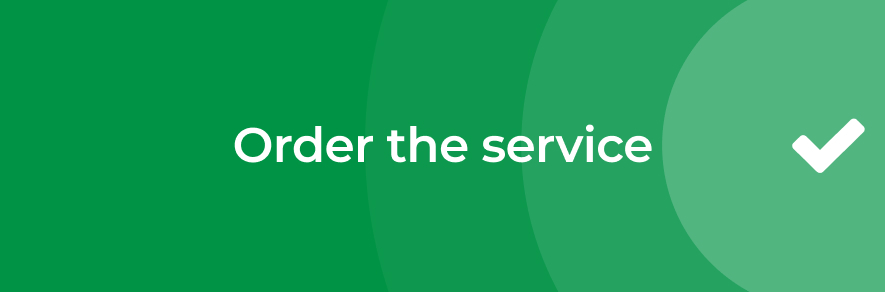
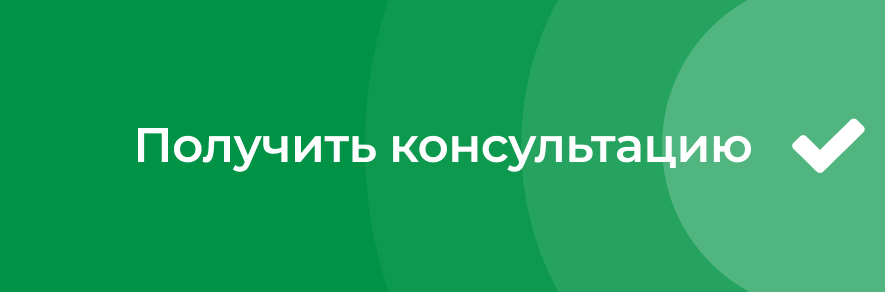
UPD: Перевод модалок

Changed region(s): [[0.1525, 0.4315, 0.8542, 0.5856]]

diff --git a/templates/parts/modals/parts/legal-modal.php b/templates/parts/modals/parts/legal-modal.php
@@ -5,25 +5,24 @@
     <div class="service-modal__header">
     </div>
     <form class="service-modal__form" action="" data-form="legal-form">
-      <div class="service-modal__form-title">Leave a request</div>
-      <div class="service-modal__form-subtitle">for the provision of <span>legal services</span></div>
-      <input class="service-modal__form-input input-reset service-modal__form-input--name" type="text" name="name" placeholder="Your name">
+      <div class="service-modal__form-title">Оставьте заявку</div>
+      <div class="service-modal__form-subtitle">для консультации по <span>юридическим услугам</span></div>
+      <input class="service-modal__form-input input-reset service-modal__form-input--name" type="text" name="name" placeholder="Ваше имя">
       <input class="service-modal__form-input input-reset service-modal__form-input--tel" name="phone"
         data-phone-country type="tel">
-      <div class="service-modal__form-select-title">Select a service</div>
+      <div class="service-modal__form-select-title">Выбрать услугу</div>
       <select class="service-modal__form-input service-modal__form-input--select" name="service">
-        <option value="Opening of the Free Zone company">Opening of the Free Zone company</option>
-        <option value="Opening a company in Mainland">Opening a company in Mainland</option>
-        <option value="Opening a freelance license">Opening a freelance license</option>
-        <option value="Obtaining a resident visa">Obtaining a resident visa</option>
-        <option value="Opening a bank account">Opening a bank account</option>
-        <option value="Opening Offshore">Opening Offshore</option>
-        <option value="Creation of trust structures">Creation of trust structures</option>
-        <option value="Other">Other</option>
+        <option value="Открытие компании во Free zone">Открытие компании во Free zone</option>
+        <option value="Регистрация компании в Mainland">Регистрация компании в Mainland</option>
+        <option value="Открытие фриланс лицензии">Открытие фриланс лицензии</option>
+        <option value="Резидентская виза">Резидентская виза</option>
+        <option value="Открытие банковского счета">Открытие банковского счета</option>
+        <option value="Открытие оффшора">Открытие оффшора</option>
+        <option value="Создание трастовых структур">Создание трастовых структур</option>
+        <option value="Другое">Другое</option>
       </select>
-      <button class="btn-reset service-modal__form-button">Find out the price</button>
-      <div class="service-modal__form-legal">By submitting the form you agree to the terms of the <a href="<?= get_privacy_policy_url() ?>" target="_blank">data
-          privacy policy</a></div>
+      <button class="btn-reset service-modal__form-button">Подобрать цену</button>
+      <div class="service-modal__form-legal">Отправляю форму вы соглашаетесь с условиями <a href="<?= get_privacy_policy_url() ?>" target="_blank">политики конфиденциальности данных</a></div>
     </form>
   </div>
 </div>

diff --git a/templates/parts/modals/parts/accounting-modal.php b/templates/parts/modals/parts/accounting-modal.php
@@ -5,22 +5,21 @@
     <div class="service-modal__header">
     </div>
     <form class="service-modal__form" action="" data-form="accounting-form">
-      <div class="service-modal__form-title">Leave a request</div>
-      <div class="service-modal__form-subtitle">for the provision of <span>accounting services</span></div>
-      <input class="service-modal__form-input input-reset service-modal__form-input--name" type="text" name="name" placeholder="Your name">
+      <div class="service-modal__form-title">Оставьте заявку</div>
+      <div class="service-modal__form-subtitle">для консультации по <span>бухгалтерским услугам</span></div>
+      <input class="service-modal__form-input input-reset service-modal__form-input--name" type="text" name="name" placeholder="Ваше имя">
       <input class="service-modal__form-input input-reset service-modal__form-input--tel" name="phone"
         data-phone-country type="tel">
-      <div class="service-modal__form-select-title">Select a service</div>
+      <div class="service-modal__form-select-title">Выберите услугу</div>
       <select class="service-modal__form-input service-modal__form-input--select" name="service">
-        <option value="Accounting support">Accounting support</option>
-        <option value="VAT TRN registration (VAT)">VAT TRN registration (VAT)</option>
-        <option value="Corporate tax">Corporate tax</option>
-        <option value="Annual audit">Annual audit</option>
-        <option value="Other">Other</option>
+        <option value="Бухгалтерское сопровождение">Бухгалтерское сопровождение</option>
+        <option value="Регистрация VAT">Регистрация VAT</option>
+        <option value="Корпоративные налоги">Корпоративные налоги</option>
+        <option value="Годовой аудит">Годовой аудит</option>
+        <option value="Другое">Другое</option>
       </select>
-      <button class="btn-reset service-modal__form-button">Find out the price</button>
-      <div class="service-modal__form-legal">By submitting the form you agree to the terms of the <a href="<?= get_privacy_policy_url() ?>" target="_blank">data
-          privacy policy</a></div>
+      <button class="btn-reset service-modal__form-button">Подобрать стоимость</button>
+      <div class="service-modal__form-legal">Отправляю форму вы соглашаетесь с условиями <a href="<?= get_privacy_policy_url() ?>" target="_blank">политики конфиденциальности данных</a></div>
     </form>
   </div>
 </div>
